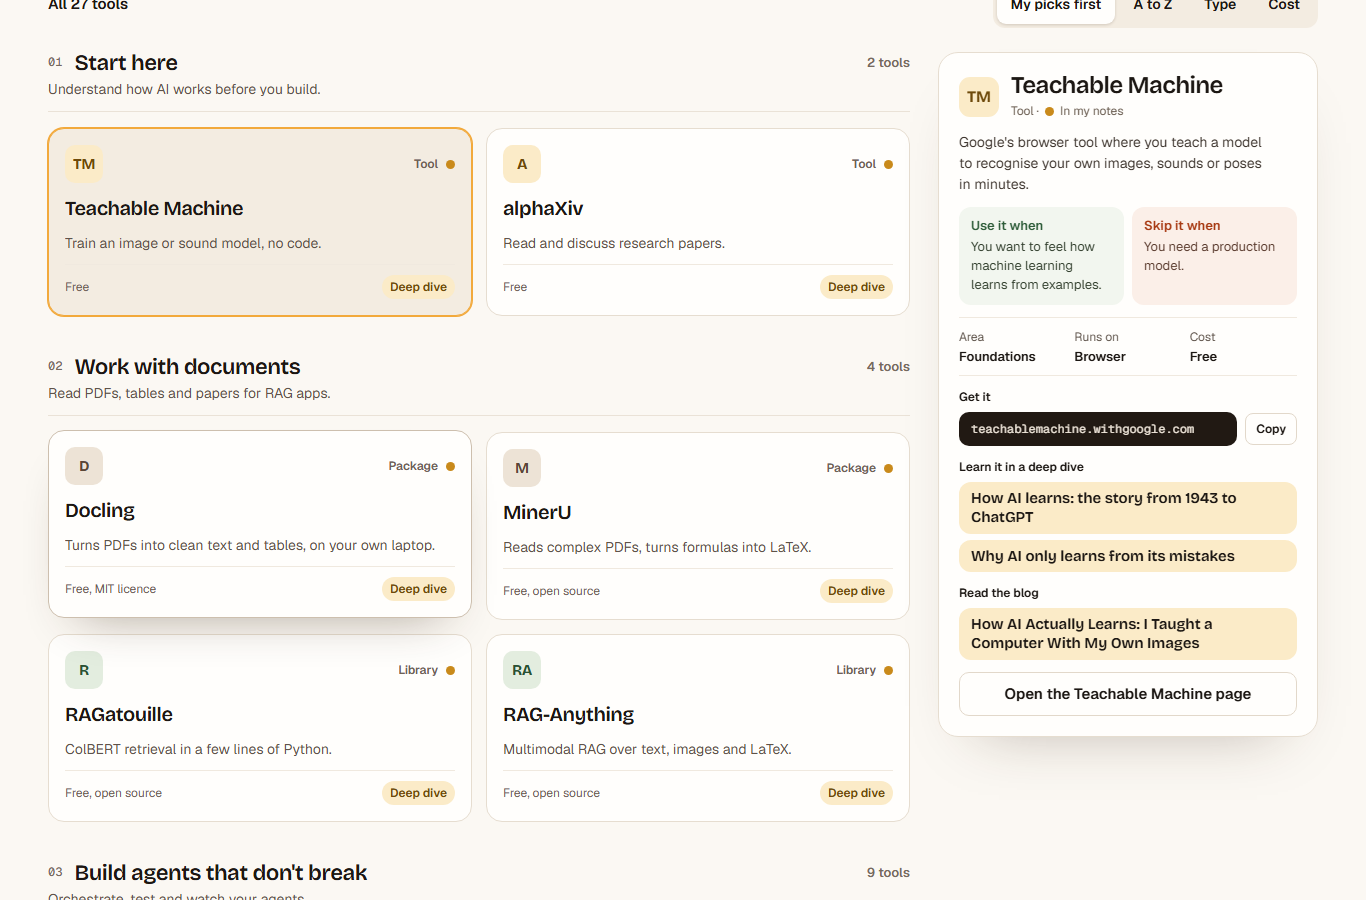
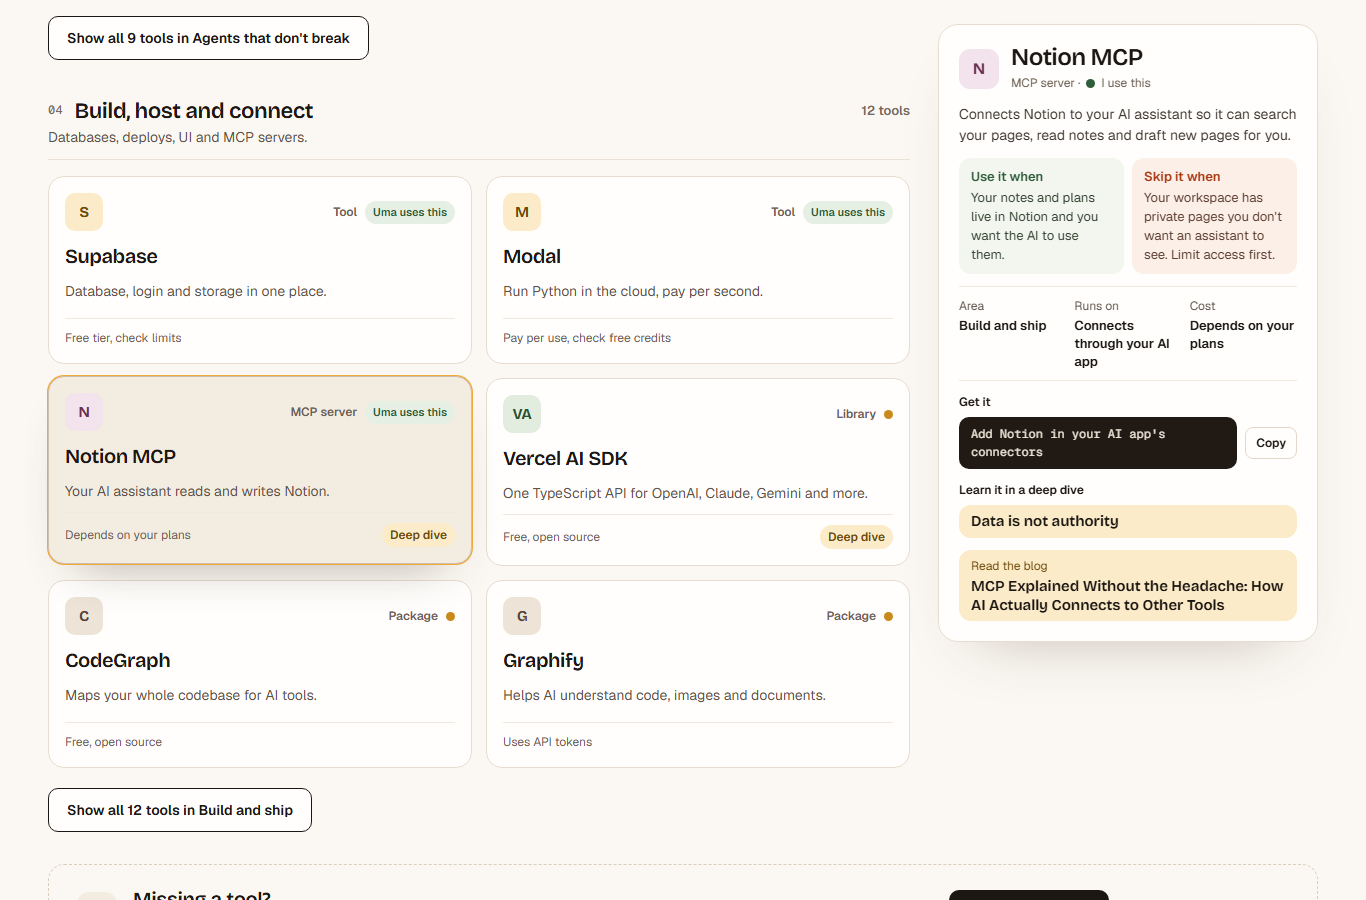
Toolkit panel: bottom button opens the tool's main blog post
Replaces the separate "Read the blog" list and the "Open the … page"
button with one deep-dive-style "Read the blog" button. A tool's posts
are now ordered most specific first, so the button opens the post
about that tool. Tools without a post keep the note and page button.

diff --git a/web/src/components/toolkit/ToolDetail.tsx b/web/src/components/toolkit/ToolDetail.tsx
@@ -18,6 +18,7 @@ type Props = {
 export function ToolDetail({ tool, variant = "panel", headingLevel = "h2" }: Props) {
   const Heading = headingLevel;
   const group = GROUPS.find((g) => g.value === tool.group);
+  const blog = tool.posts[0];
   return (
     <div className={`${styles.detail} ${styles[variant]}`}>
       {variant !== "inline" && (
@@ -94,30 +95,26 @@ export function ToolDetail({ tool, variant = "panel", headingLevel = "h2" }: Pro
         )}
       </div>
 
-      {/* A tool with its own blog post links to it; the others keep the short note. */}
-      {tool.posts.length > 0 ? (
-        <div className={styles.dives}>
-          <span className={styles.label}>Read the blog</span>
-          {tool.posts.map((p) => (
-            <Link key={p.slug} href={links.post(p.slug)} className={styles.dive}>
-              <span className={styles.diveTrack}>Blog post</span>
-              <span className={styles.diveTitle}>{p.title}</span>
-            </Link>
-          ))}
+      {/* Tools without a blog post yet keep the short note. */}
+      {!blog && tool.note && (
+        <div className={styles.note}>
+          <span className={styles.label}>From my notes</span>
+          <span>{tool.note}</span>
         </div>
-      ) : (
-        tool.note && (
-          <div className={styles.note}>
-            <span className={styles.label}>From my notes</span>
-            <span>{tool.note}</span>
-          </div>
-        )
       )}
 
-      {variant === "panel" && (
-        <Button href={links.tool(tool.slug)} variant="light" block>
-          Open the {tool.name} page
-        </Button>
+      {/* The tool's main blog post (most specific first); otherwise its own page. */}
+      {blog ? (
+        <Link href={links.post(blog.slug)} className={`${styles.dive} ${styles.blogButton}`}>
+          <span className={styles.diveTrack}>Read the blog</span>
+          <span className={styles.diveTitle}>{blog.title}</span>
+        </Link>
+      ) : (
+        variant === "panel" && (
+          <Button href={links.tool(tool.slug)} variant="light" block>
+            Open the {tool.name} page
+          </Button>
+        )
       )}
       {variant === "page" && tool.tags.length > 0 && (
         <div className={styles.tags}>

diff --git a/web/src/lib/api-types/ToolWithDives.ts b/web/src/lib/api-types/ToolWithDives.ts
@@ -7,6 +7,6 @@ import type { ToolStatus } from "./ToolStatus";
 
 export type ToolWithDives = { dives: Array<DiveRef>, 
 /**
- * Blog posts that list this tool in their "Tools used" row, newest first.
+ * Blog posts that list this tool in their "Tools used" row, most specific first.
  */
 posts: Array<PostRef>, slug: string, name: string, kind: ToolKind, group: ToolGroup, short: string, plain: string, use_when: string, skip_when: string, runs_on: string, cost: string, get_it: string, status: ToolStatus, note: string | null, tags: Array<string>, position: number, };

diff --git a/web/src/components/toolkit/ToolDetail.module.css b/web/src/components/toolkit/ToolDetail.module.css
@@ -352,3 +352,8 @@
     grid-template-columns: 1fr 1fr;
   }
 }
+
+/* The bottom "Read the blog" button: the deep-dive card style, always showing its label. */
+.blogButton .diveTrack {
+  display: block;
+}

diff --git a/api/src/services/content.rs b/api/src/services/content.rs
@@ -102,10 +102,15 @@ pub async fn tools(state: &AppState) -> ApiResult<ToolsResponse> {
                 .map(|d| dive_ref(d, &tracks))
                 .collect();
             let href = format!("/toolkit/{}", tool.slug);
-            let posts = all_posts
+            // Most specific first (fewest tools in its "Tools used" row), then newest.
+            let mut matched: Vec<(usize, &Post)> = all_posts
                 .iter()
-                .filter(|p| p.body.iter().any(|b| is_tools_used_link(b, &href)))
-                .map(|p| PostRef {
+                .filter_map(|p| tools_used_count(p, &href).map(|n| (n, p)))
+                .collect();
+            matched.sort_by_key(|(n, _)| *n);
+            let posts = matched
+                .into_iter()
+                .map(|(_, p)| PostRef {
                     slug: p.slug.clone(),
                     title: p.title.clone(),
                 })
@@ -119,9 +124,14 @@ pub async fn tools(state: &AppState) -> ApiResult<ToolsResponse> {
     })
 }
 
-/// A post's "Tools used" row links to `href` (e.g. "/toolkit/docling").
-fn is_tools_used_link(b: &Block, href: &str) -> bool {
-    matches!(b, Block::Links { label: Some(l), items } if l == "Tools used" && items.iter().any(|i| i.href == href))
+/// If the post's "Tools used" row links to `href` (e.g. "/toolkit/docling"), how many tools that row lists.
+fn tools_used_count(p: &Post, href: &str) -> Option<usize> {
+    p.body.iter().find_map(|b| match b {
+        Block::Links { label: Some(l), items } if l == "Tools used" && items.iter().any(|i| i.href == href) => {
+            Some(items.len())
+        }
+        _ => None,
+    })
 }
 
 pub async fn tool(state: &AppState, slug: &str) -> ApiResult<ToolWithDives> {

diff --git a/api/src/models/api.rs b/api/src/models/api.rs
@@ -34,7 +34,7 @@ pub struct ToolWithDives {
     #[ts(flatten)]
     pub tool: Tool,
     pub dives: Vec<DiveRef>,
-    /// Blog posts that list this tool in their "Tools used" row, newest first.
+    /// Blog posts that list this tool in their "Tools used" row, most specific first.
     pub posts: Vec<PostRef>,
 }
 
